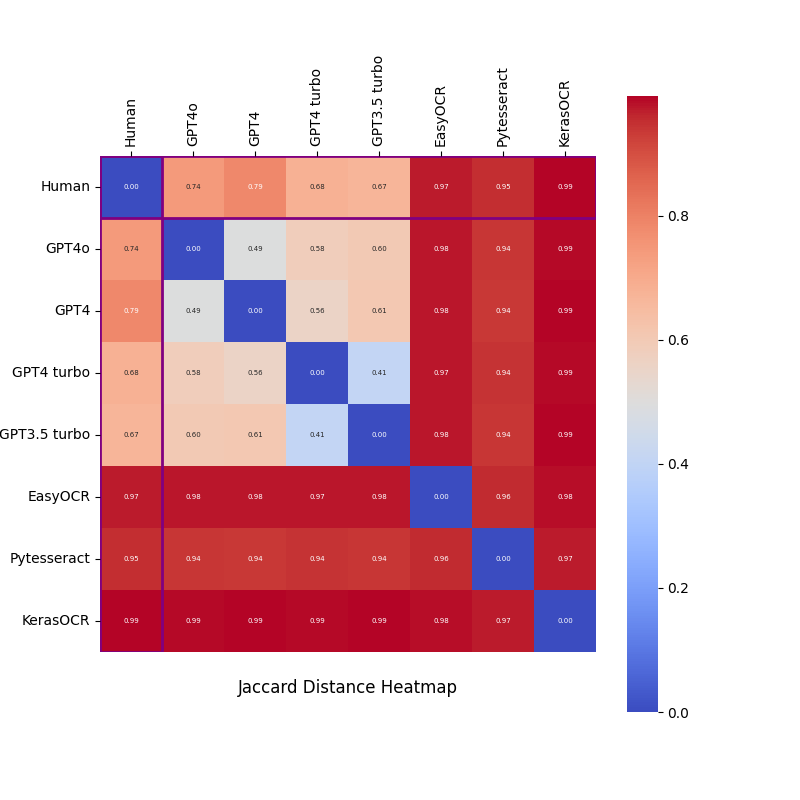
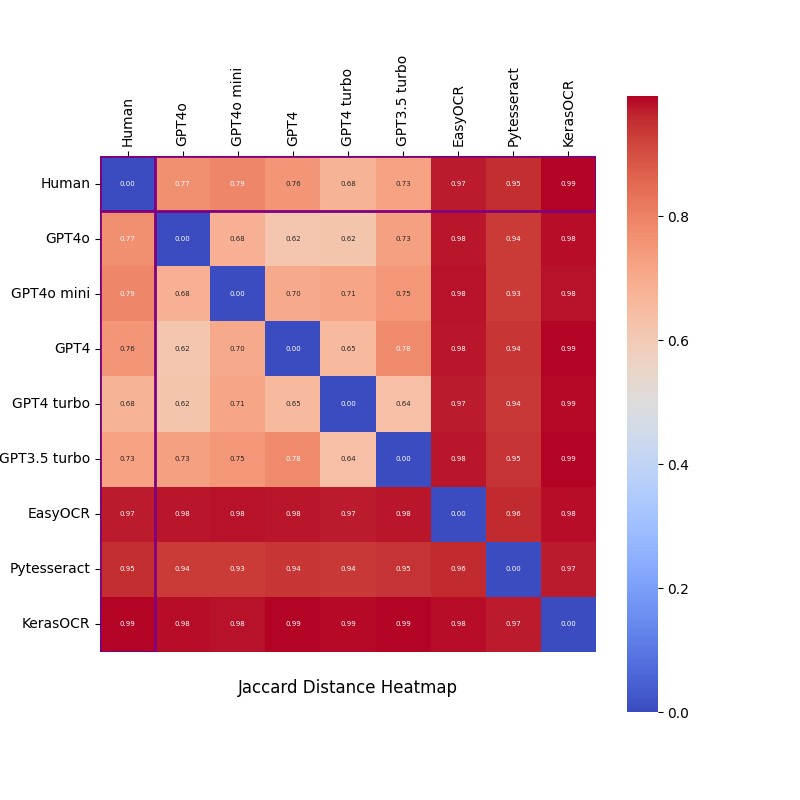
NEw results + test gpt-4o-mini

diff --git a/main.py b/main.py
@@ -40,6 +40,7 @@ def evaluate():
     texts = {
         "Human": "",
         "GPT4o": "",
+        "GPT4o mini": "",
         "GPT4": "",
         "GPT4 turbo": "",
         "GPT3.5 turbo": "",
@@ -51,6 +52,7 @@ def evaluate():
     texts_cc = {
         "Human": "",
         "GPT4o cc": "",
+        "GPT4o mini cc": "",
         "GPT4 cc": "",
         "GPT4 turbo cc": "",
         "GPT3.5 turbo cc": "",
@@ -81,6 +83,7 @@ def evaluate():
 
         texts["Human"] += transcription + "\n"
         texts["GPT4o"] += askLLMAgent(image_path, trans_lst, "gpt-4o") + "\n"
+        texts["GPT4o mini"] += askLLMAgent(image_path, trans_lst, "gpt-4o-mini") + "\n"
         #texts["GPT4o cc"] += askLLMAgent(output_path, trans_lst, "gpt-4o") + "\n"
         texts["GPT4"] += askLLMAgent(image_path, trans_lst, "gpt-4") + "\n"
         #texts["GPT4 cc"] += askLLMAgent(output_path, trans_lst, "gpt-4") + "\n"

diff --git a/lib/agent.py b/lib/agent.py
@@ -60,9 +60,13 @@ class Agent:
             "Content-Type": "application/json",
             "Authorization": f"Bearer {self.openai_API_KEY}"
         } 
+        if("gpt-4o" in self.model):
+            model_vision = self.model
+        else:
+            model_vision = "gpt-4o"
         if(base64_image):  
             payload = {
-                "model": "gpt-4o", # only gpt-4o can handle images
+                "model": model_vision, # only gpt-4o can handle images
                 "messages": [
                 {
                     "role": "user",
